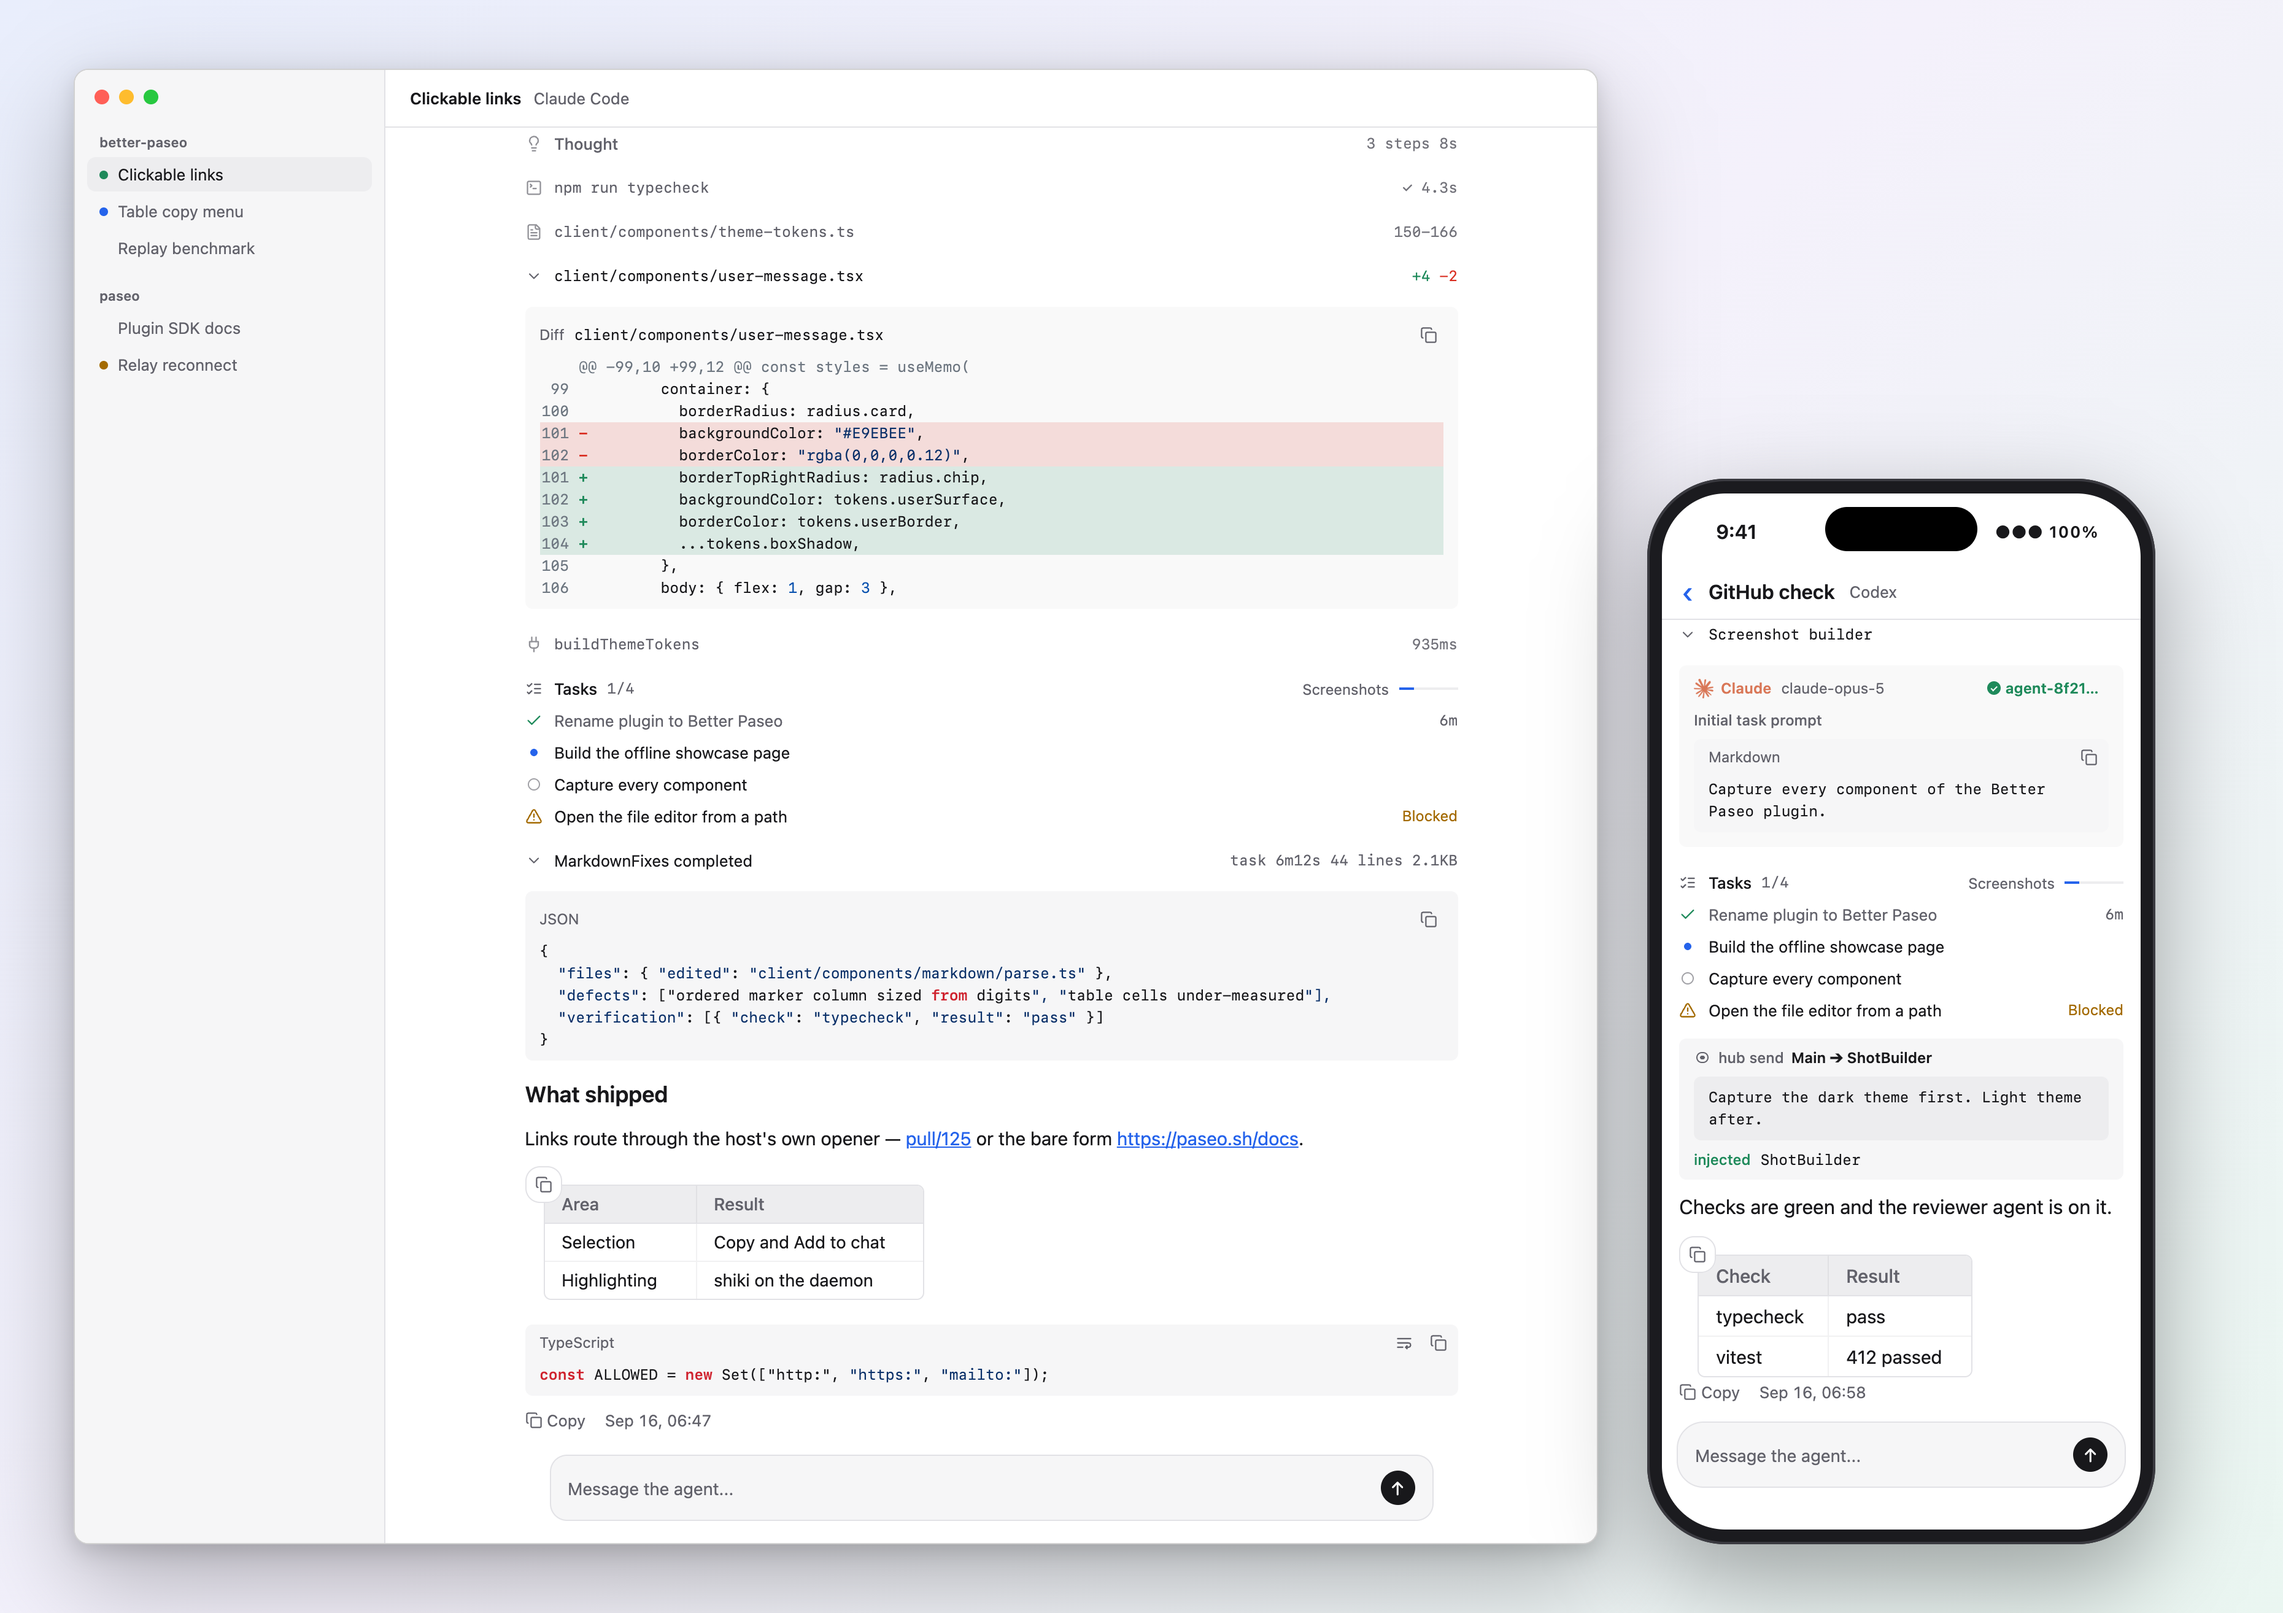
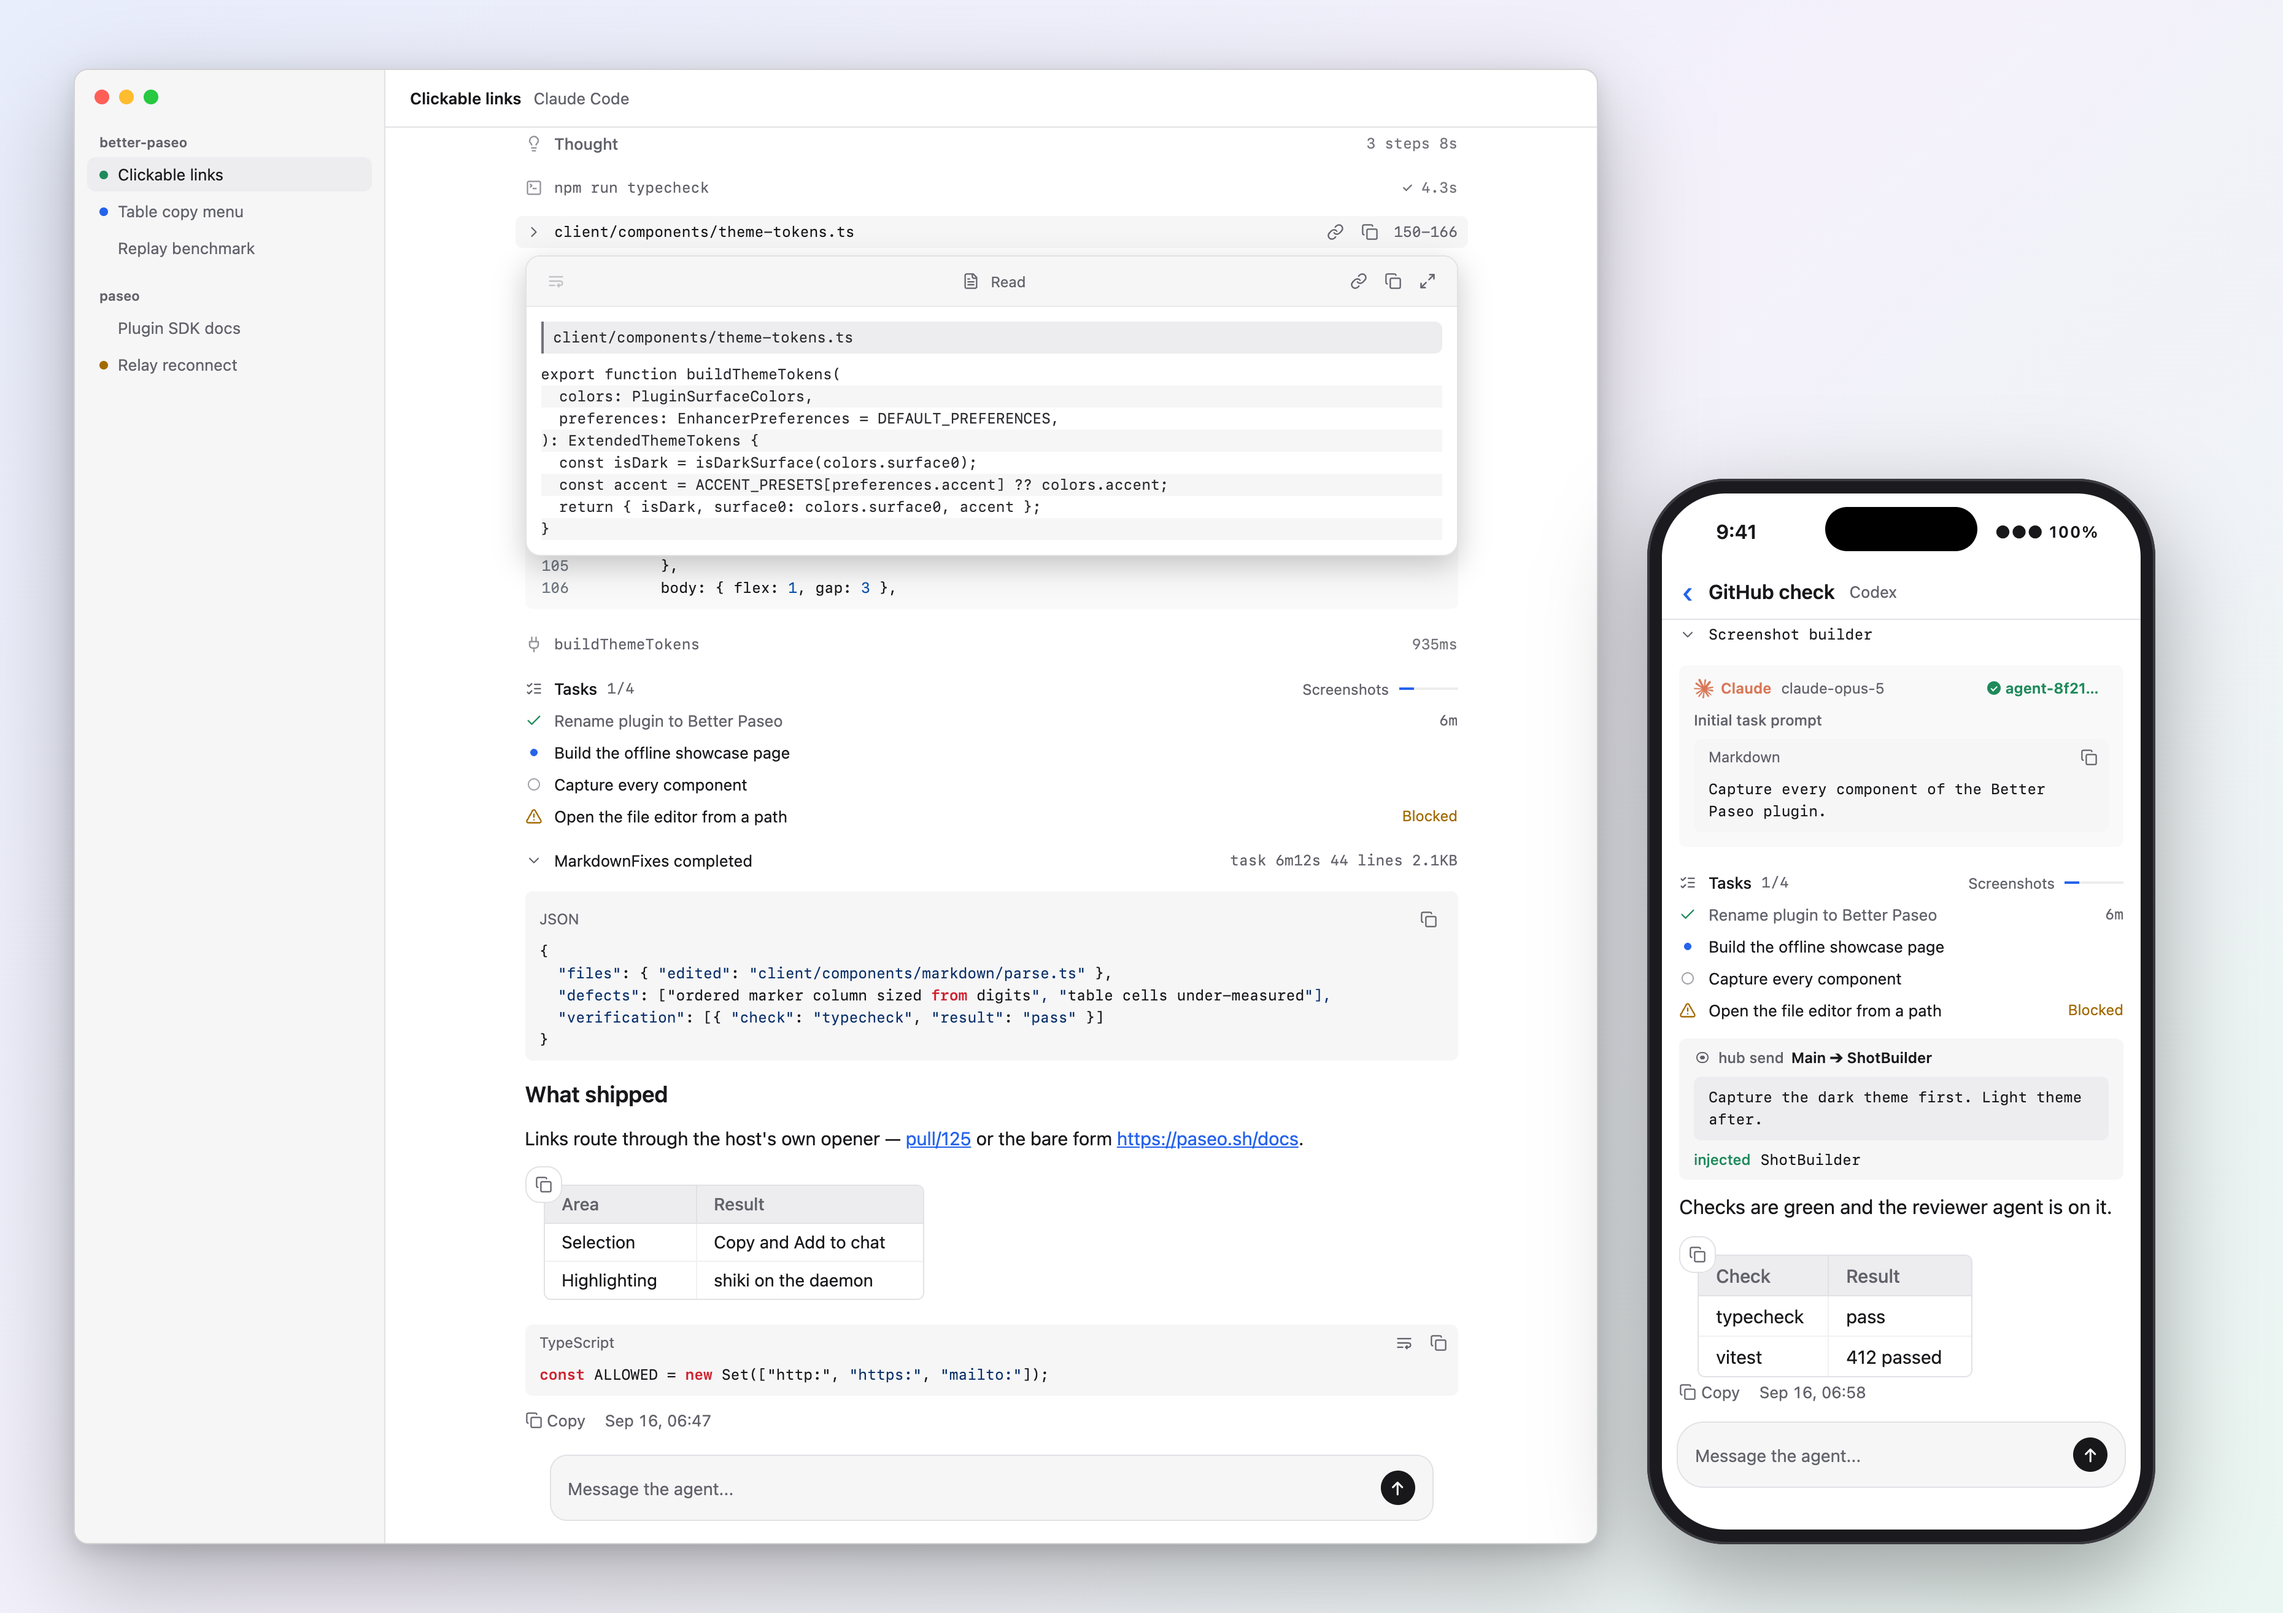
docs(readme): add a collapsed-row hover preview to the hero image
Launch headless Chrome with a fine pointer and hover the collapsed Read row
before capturing the hero. Increase viewport height so screenshot scrolling
does not displace the preview panel.

Changed region(s): [[0.2183, 0.156, 0.6548, 0.3744]]

diff --git a/README-zh.md b/README-zh.md
@@ -6,7 +6,7 @@
 
 <picture>
   <source media="(prefers-color-scheme: dark)" srcset="images/hero-devices-dark.png">
-  <img alt="Better Paseo 的桌面端与移动端：思考、Shell、读文件、编辑 diff、MCP、待办、Paseo 与 hub 调用、后台任务和回复" src="images/hero-devices-light.png">
+  <img alt="Better Paseo 的桌面端与移动端：折叠读文件行的悬停预览、思考、Shell、读文件、编辑 diff、MCP、待办、Paseo 与 hub 调用、后台任务和回复" src="images/hero-devices-light.png">
 </picture>
 
 > Better Paseo fork 自 [ABorakati/beautiful-chat](https://github.com/ABorakati/beautiful-chat)，从 `42b61d8`（2026-09-23）接着开发。除 Eval、Ask、Task 和审批卡片外，Beautiful Chat 原有的卡片都还在；当前的 Paseo 不会把这几类内容交给插件（见[兼容性](#兼容性)）。本文介绍这个 fork 新增的功能和它的性能表现。

diff --git a/README.md b/README.md
@@ -9,7 +9,7 @@ active Paseo theme, and the whole timeline renders faster than Paseo does on its
 
 <picture>
   <source media="(prefers-color-scheme: dark)" srcset="images/hero-devices-dark.png">
-  <img alt="Better Paseo on desktop and on a phone: reasoning, shell, read, edit diff, MCP, checklist, Paseo and hub calls, a background job and the reply" src="images/hero-devices-light.png">
+  <img alt="Better Paseo on desktop and on a phone: a hover preview of a collapsed read, reasoning, shell, read, edit diff, MCP, checklist, Paseo and hub calls, a background job and the reply" src="images/hero-devices-light.png">
 </picture>
 
 > Better Paseo is a fork of [ABorakati/beautiful-chat](https://github.com/ABorakati/beautiful-chat),
